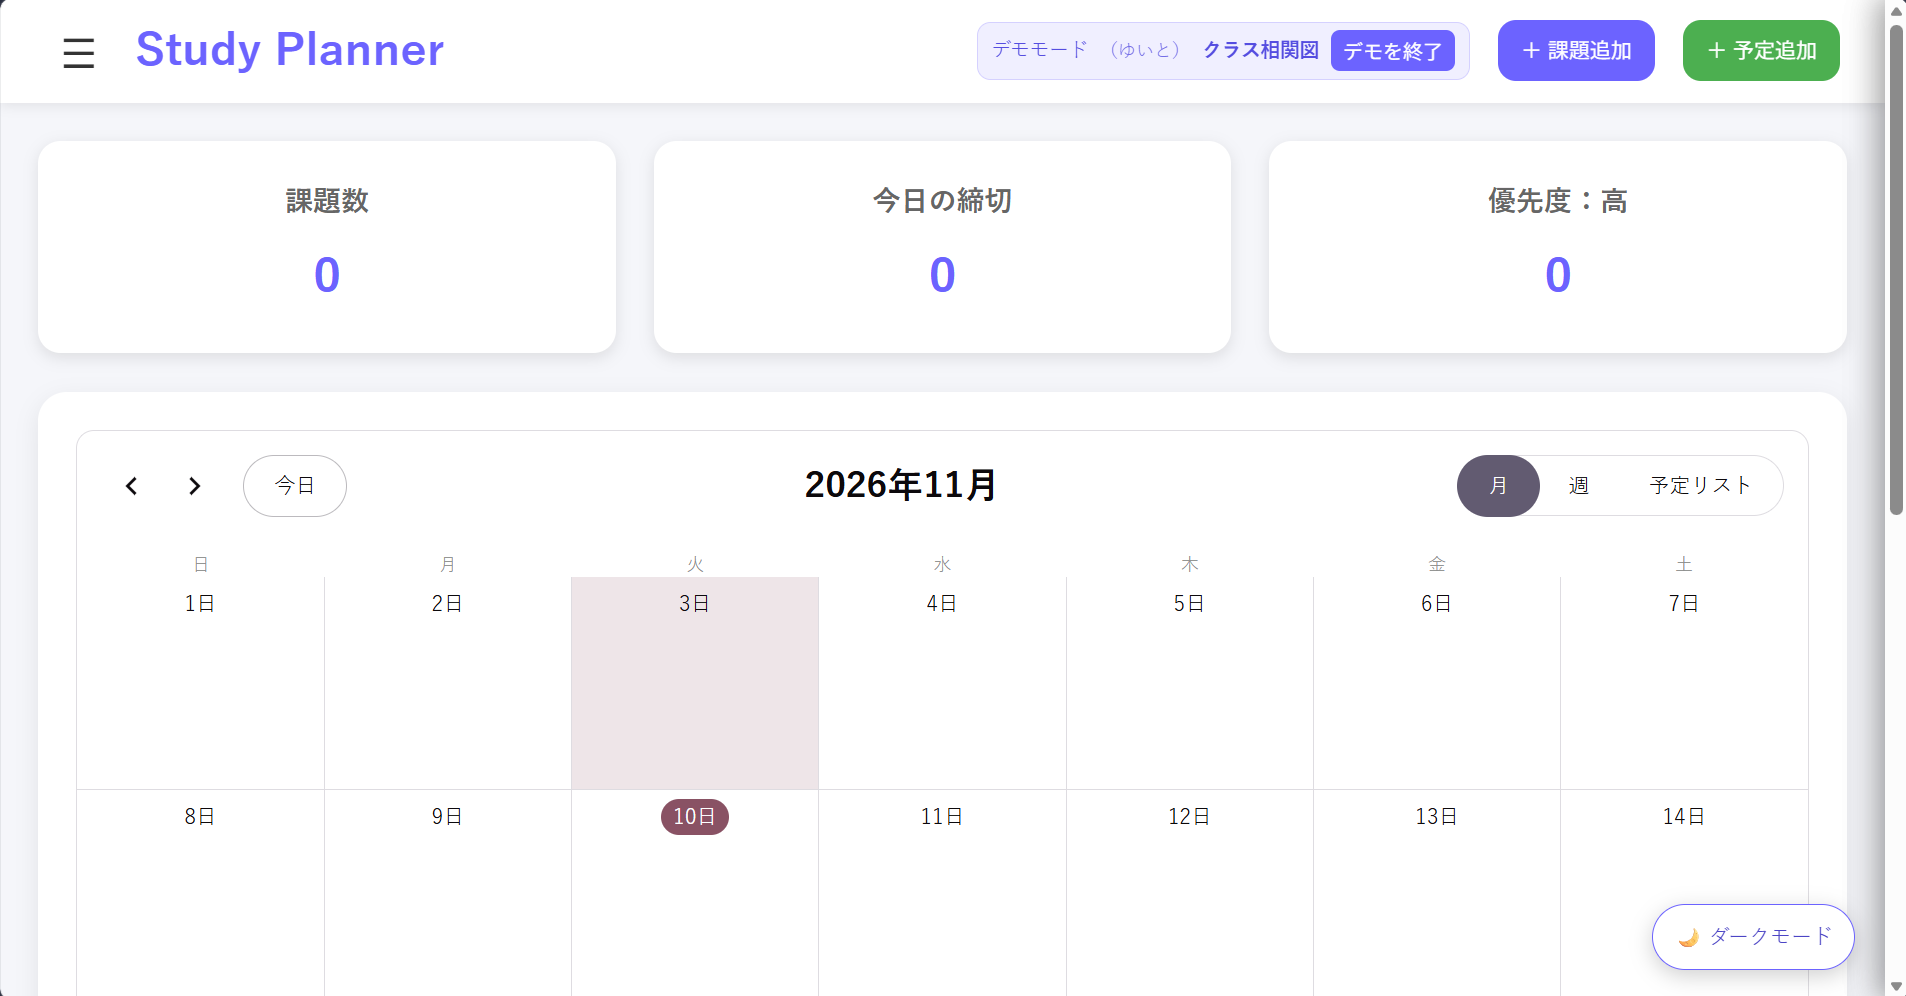
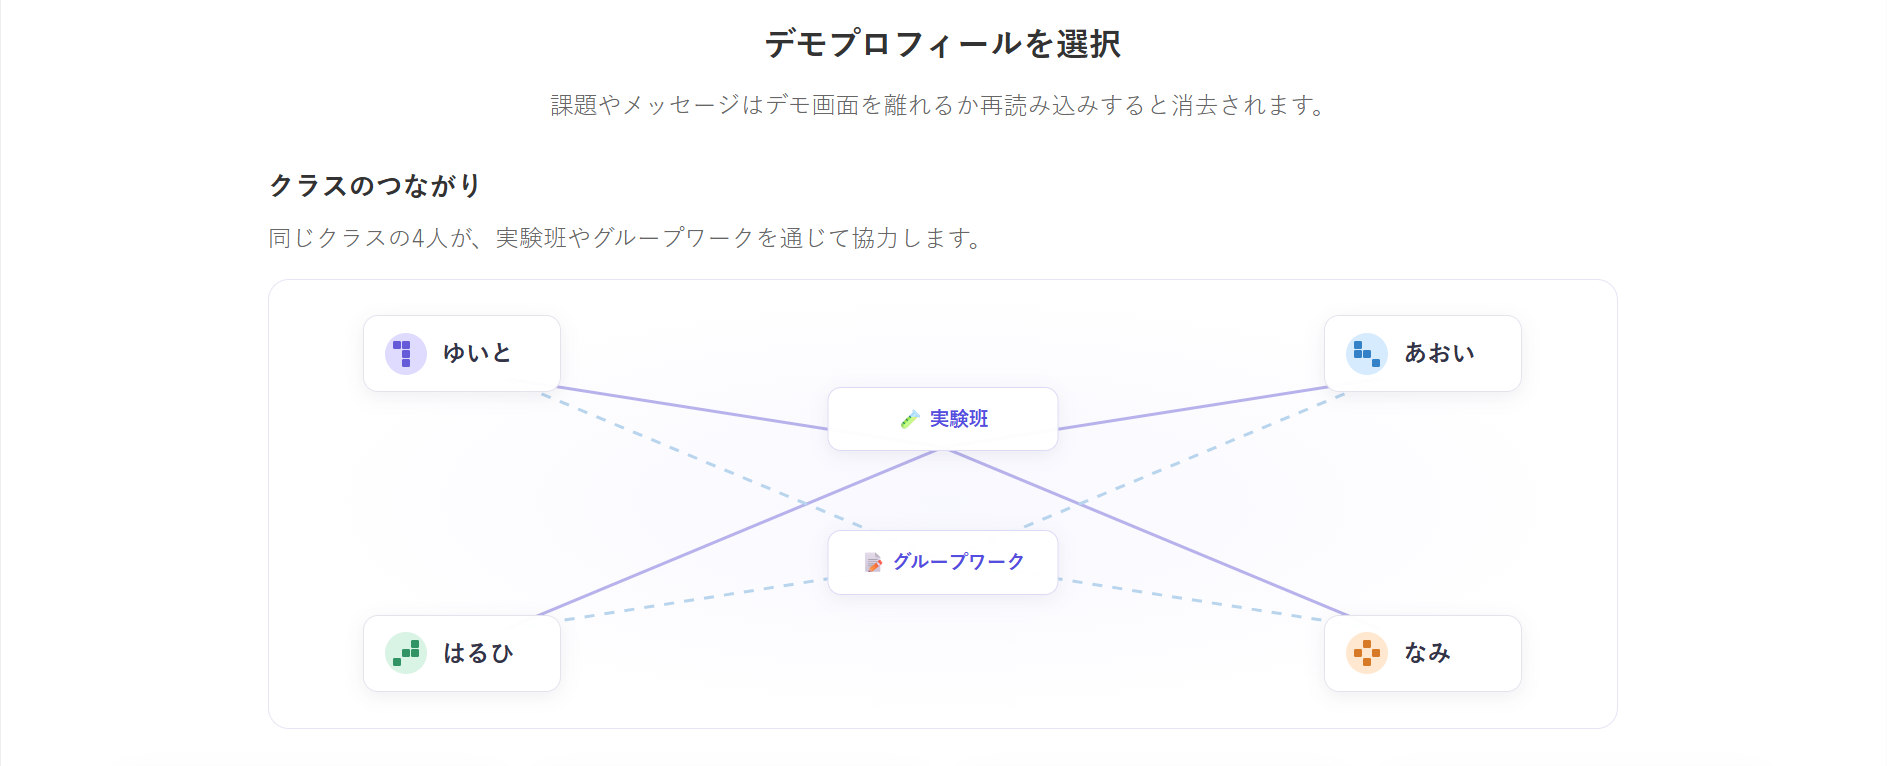
Update portfolio

diff --git a/index.html b/index.html
@@ -162,7 +162,7 @@
         <div class="work-card" data-category="python" data-project="project03" role="button" tabindex="0">
 
           <div class="work-image">
-            <img src="images/project03.png" alt="Pythonゲーム">
+            ブラックジャック
           </div>
 
           <div class="work-info">
@@ -303,6 +303,10 @@
         <div class="project-gallery">
           <img src="images/studyplanner-01.png" alt="Study Plannerの画面1">
           <img src="images/studyplanner-02.png" alt="Study Plannerの画面2">
+          <img src="images/studyplanner-03.png" alt="Study Plannerの画面3">
+          <img src="images/studyplanner-04.png" alt="Study Plannerの画面4">
+          <img src="images/studyplanner-05.png" alt="Study Plannerの画面5">
+          <!-- 後からスクリーンショットを4枚以上追加 -->
         </div>
 
       </div>
